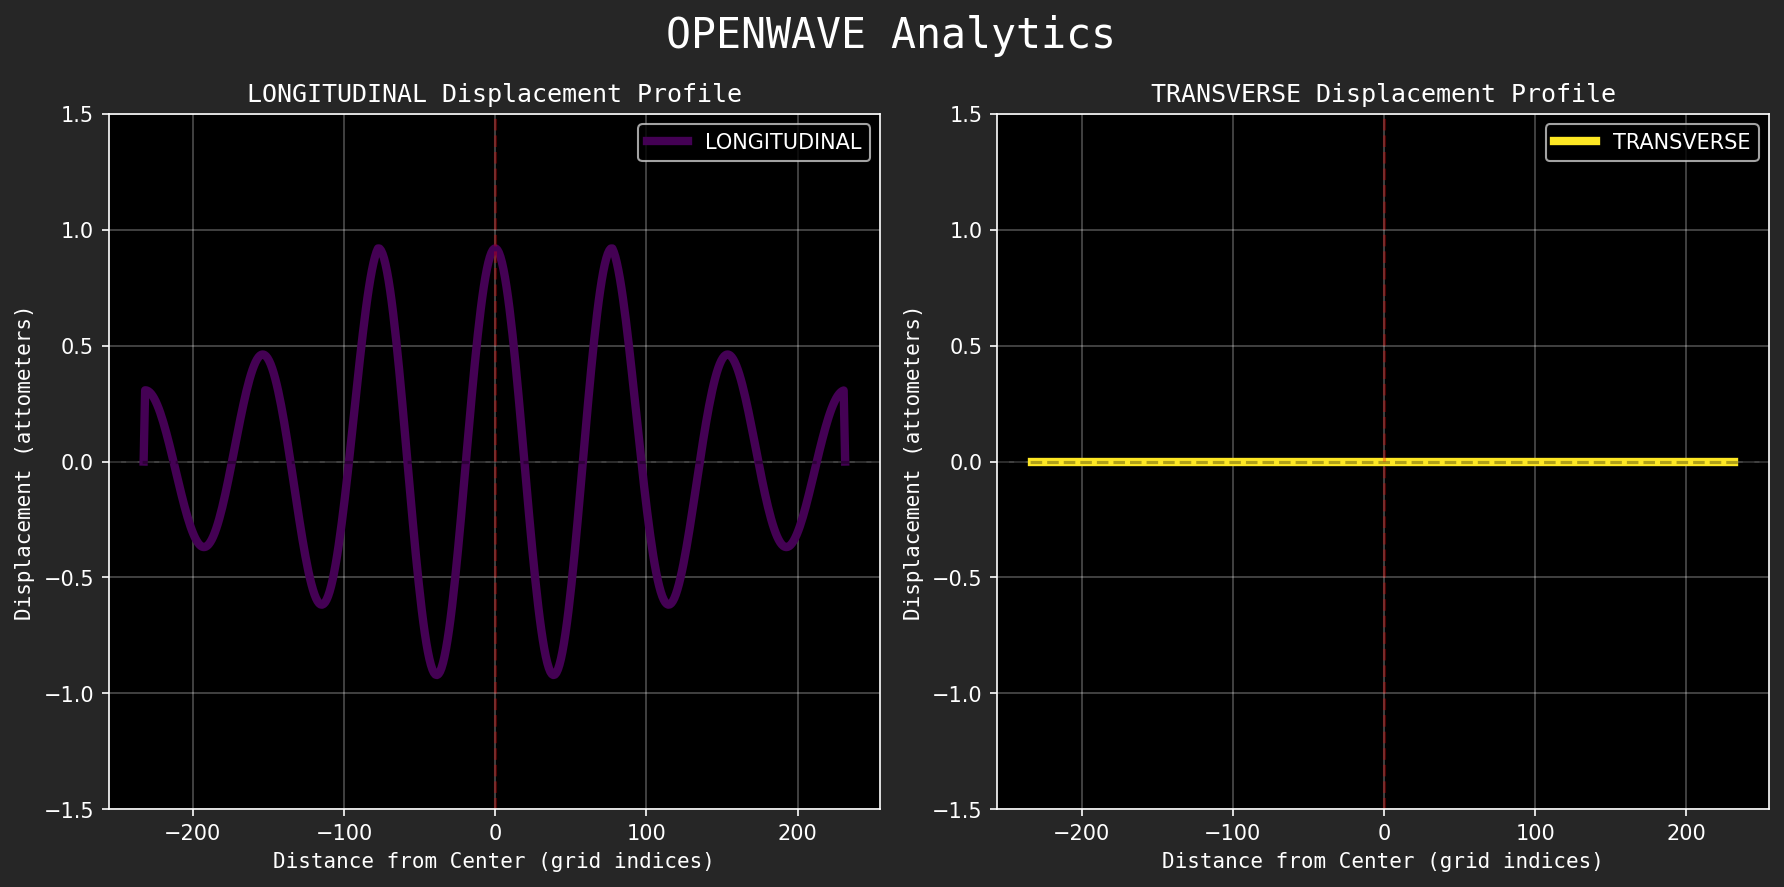
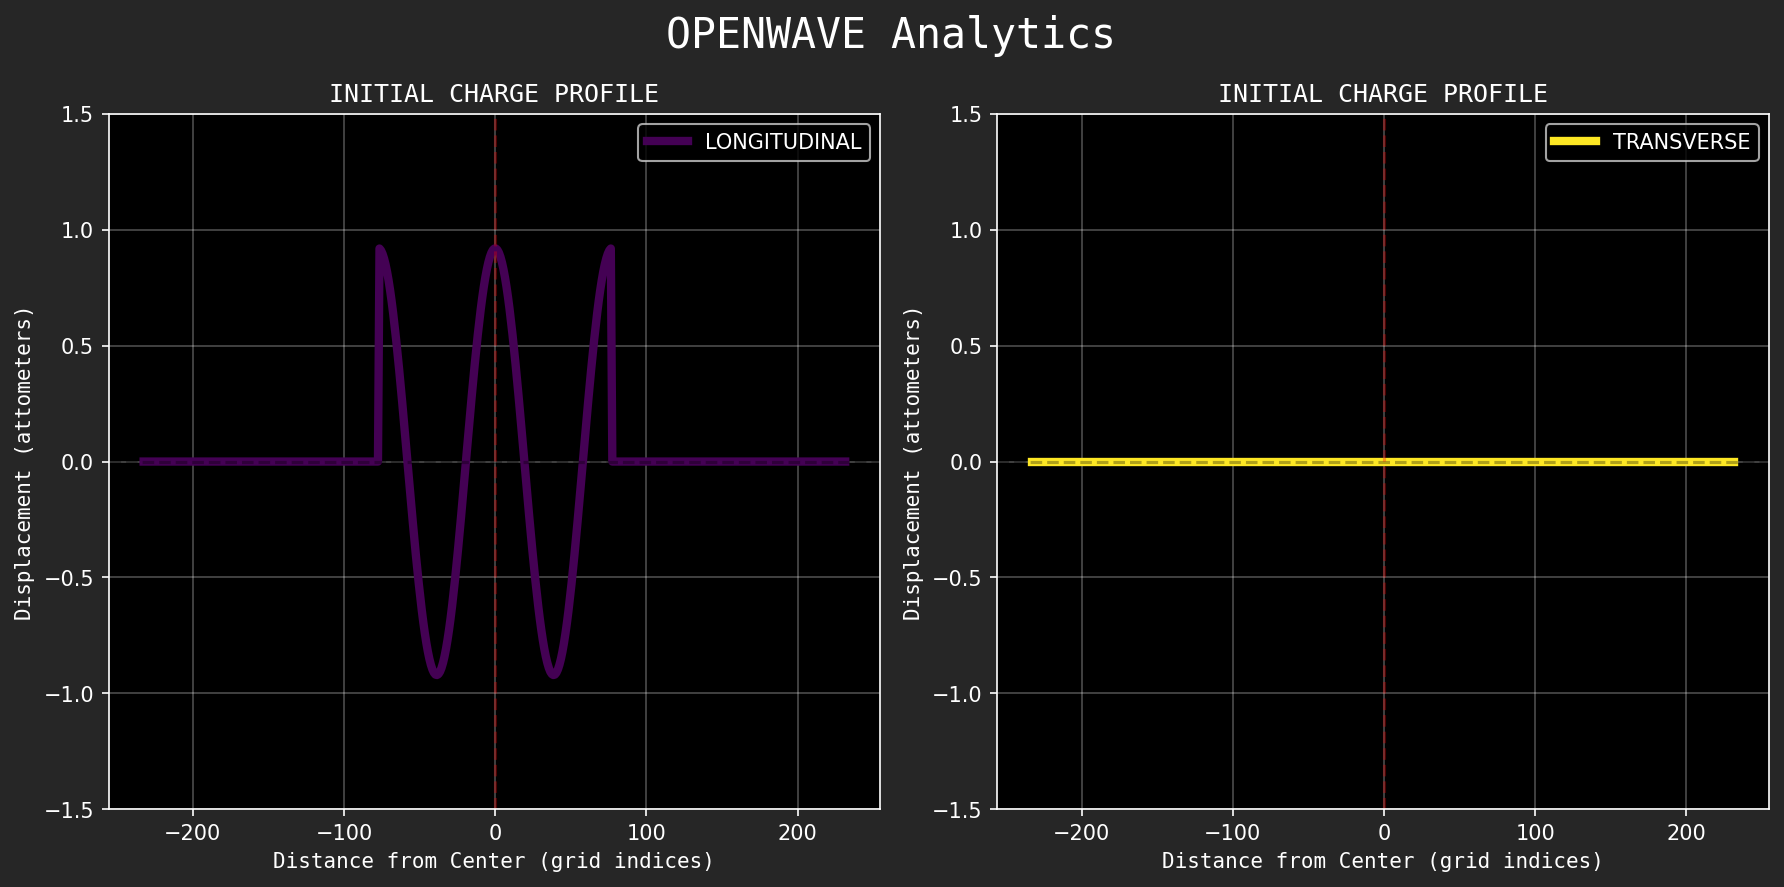
Add charge_1lambda initializer and update plotting
Introduced the charge_1lambda kernel to initialize a spherical outgoing wave within one wavelength. Updated the experiment launcher to use charge_1lambda instead of charge_falloff or charge_full, and renamed plot_displacement_profile to plot_charge_profile with updated plot titles. Also updated the displacement profile research image.

diff --git a/openwave/spacetime/L1_wave_engine.py b/openwave/spacetime/L1_wave_engine.py
@@ -74,7 +74,6 @@ def charge_full(
         wave_field.displacement_old_am[i, j, k] = disp_old  # at time t=-1
 
 
-# TODO: remove amplitude falloff post propagation implementation
 @ti.kernel
 def charge_falloff(
     wave_field: ti.template(),  # type: ignore
@@ -88,10 +87,6 @@ def charge_falloff(
     Similar to initiate_charge() but includes realistic amplitude decay with
     distance (λ/r falloff). Creates a radial sinusoidal displacement pattern
     where amplitude decreases inversely with distance from the source.
-
-    Note:
-        Temporary function for testing amplitude falloff visualization before
-        wave propagation is implemented. See TODO marker.
 
     Args:
         wave_field: WaveField instance containing displacement arrays and grid info
@@ -141,8 +136,59 @@ def charge_falloff(
 
 
 @ti.kernel
-def charge_oscillator():
-    pass  # Placeholder for future oscillator charge implementation
+def charge_1lambda(
+    wave_field: ti.template(),  # type: ignore
+    slo_mo: ti.f32,  # type: ignore
+    freq_boost: ti.f32,  # type: ignore
+    dt_safe: ti.f32,  # type: ignore
+):
+    """
+    Initialize a spherical outgoing wave within 1 wavelength.
+    Similar to initiate_charge() but limits the wave to within 1 wavelength
+
+    Args:
+        wave_field: WaveField instance containing displacement arrays and grid info
+        slo_mo: Slow-motion factor to reduce effective frequency (higher = slower)
+        freq_boost: Frequency multiplier applied after slow-mo division
+    """
+
+    # Find center position (in grid indices)
+    center_x = ti.cast(wave_field.nx, ti.f32) / 2.0
+    center_y = ti.cast(wave_field.ny, ti.f32) / 2.0
+    center_z = ti.cast(wave_field.nz, ti.f32) / 2.0
+
+    # Compute angular frequency (ω = 2πf) for temporal phase variation
+    f_slowed = frequency / slo_mo * freq_boost  # slowed frequency (1Hz * boost)
+    omega = 2.0 * ti.math.pi * f_slowed  # angular frequency (rad/s)
+
+    # Compute angular wave number (k = 2π/λ) for spatial phase variation
+    wavelength_grid = wavelength_am / wave_field.dx_am
+    wave_number = 2.0 * ti.math.pi / wavelength_grid  # radians per grid index
+
+    # Create radial sinusoidal displacement pattern (interior points only)
+    # Skip boundaries to enforce Dirichlet boundary conditions (ψ=0 at edges)
+    for i, j, k in ti.ndrange(
+        (1, wave_field.nx - 1), (1, wave_field.ny - 1), (1, wave_field.nz - 1)
+    ):
+        # Distance from center (in grid indices)
+        dx = ti.cast(i, ti.f32) - center_x
+        dy = ti.cast(j, ti.f32) - center_y
+        dz = ti.cast(k, ti.f32) - center_z
+        r_grid = ti.sqrt(dx * dx + dy * dy + dz * dz)  # in grid indices
+
+        # Amplitude = base if r < λ, 0 otherwise, oscillates radially
+        amplitude_am_at_r = base_amplitude_am if r_grid < wavelength_grid else 0.0
+
+        # Simple sinusoidal radial pattern
+        # Outward displacement from center source: A(r)·cos(ωt - kr)
+        # Creates rings of positive/negative displacement
+        # Signed value: positive = expansion, negative = compression
+        disp = amplitude_am_at_r * ti.cos(omega * 0 - wave_number * r_grid)  # t0 initial condition
+        disp_old = amplitude_am_at_r * ti.cos(omega * -dt_safe - wave_number * r_grid)
+
+        # Apply both longitudinal and transverse displacement (in attometers)
+        wave_field.displacement_am[i, j, k] = disp  # at time t=0
+        wave_field.displacement_old_am[i, j, k] = disp_old  # at time t=-1
 
 
 @ti.func
@@ -436,7 +482,7 @@ def update_flux_mesh_colors_tminus1(
 
 
 # TODO: migrate to numerical analysis module
-def plot_displacement_profile(wave_field):
+def plot_charge_profile(wave_field):
     """
     Plot the displacement profile along the x-axis through the center of the wave field.
 
@@ -484,7 +530,7 @@ def plot_displacement_profile(wave_field):
     plt.ylim(-1.5, 1.5)
     plt.xlabel("Distance from Center (grid indices)", family="Monospace")
     plt.ylabel("Displacement (attometers)", family="Monospace")
-    plt.title("LONGITUDINAL Displacement Profile", family="Monospace")
+    plt.title("INITIAL CHARGE PROFILE", family="Monospace")
     plt.grid(True, alpha=0.3)
     plt.legend()
 
@@ -502,7 +548,7 @@ def plot_displacement_profile(wave_field):
     plt.ylim(-1.5, 1.5)
     plt.xlabel("Distance from Center (grid indices)", family="Monospace")
     plt.ylabel("Displacement (attometers)", family="Monospace")
-    plt.title("TRANSVERSE Displacement Profile", family="Monospace")
+    plt.title("INITIAL CHARGE PROFILE", family="Monospace")
     plt.grid(True, alpha=0.3)
     plt.legend()
 

diff --git a/openwave/xperiments/5_level1_wave_field/L1_launcher.py b/openwave/xperiments/5_level1_wave_field/L1_launcher.py
@@ -358,10 +358,12 @@ def initialize_xperiment(state):
     level_bar_vertices = colormap.get_level_bar_geometry(0.82, 0.00, 0.179, 0.01)
 
     # Initialize test displacement pattern for flux mesh visualization
-    # TODO: remove amplitude falloff post propagation implementation
-    ewave.charge_falloff(state.wave_field, state.SLO_MO, state.FREQ_BOOST, state.dt_safe)
+    # TODO: remove multiple charge post-propagation implementation
+    # ewave.charge_full(state.wave_field, state.SLO_MO, state.FREQ_BOOST, state.dt_safe)
+    # ewave.charge_falloff(state.wave_field, state.SLO_MO, state.FREQ_BOOST, state.dt_safe)
+    ewave.charge_1lambda(state.wave_field, state.SLO_MO, state.FREQ_BOOST, state.dt_safe)
     # TODO: code toggle to plot initial displacement profile
-    ewave.plot_displacement_profile(state.wave_field)
+    ewave.plot_charge_profile(state.wave_field)
 
     if state.WAVE_DIAGNOSTICS:
         diagnostics.print_initial_parameters()
